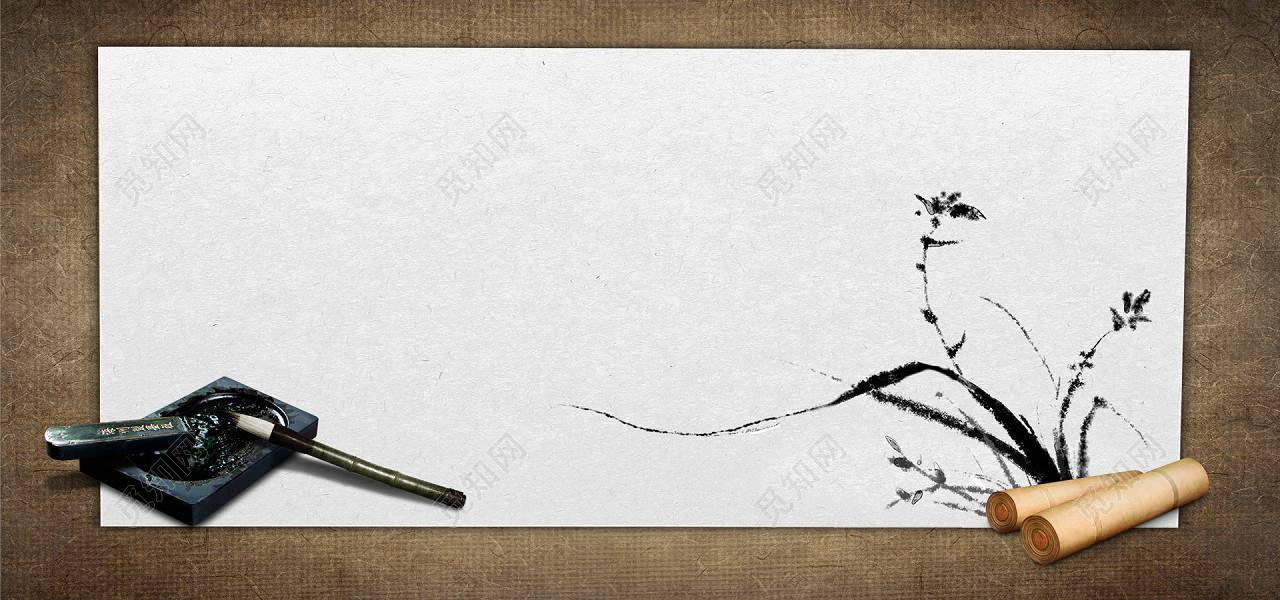
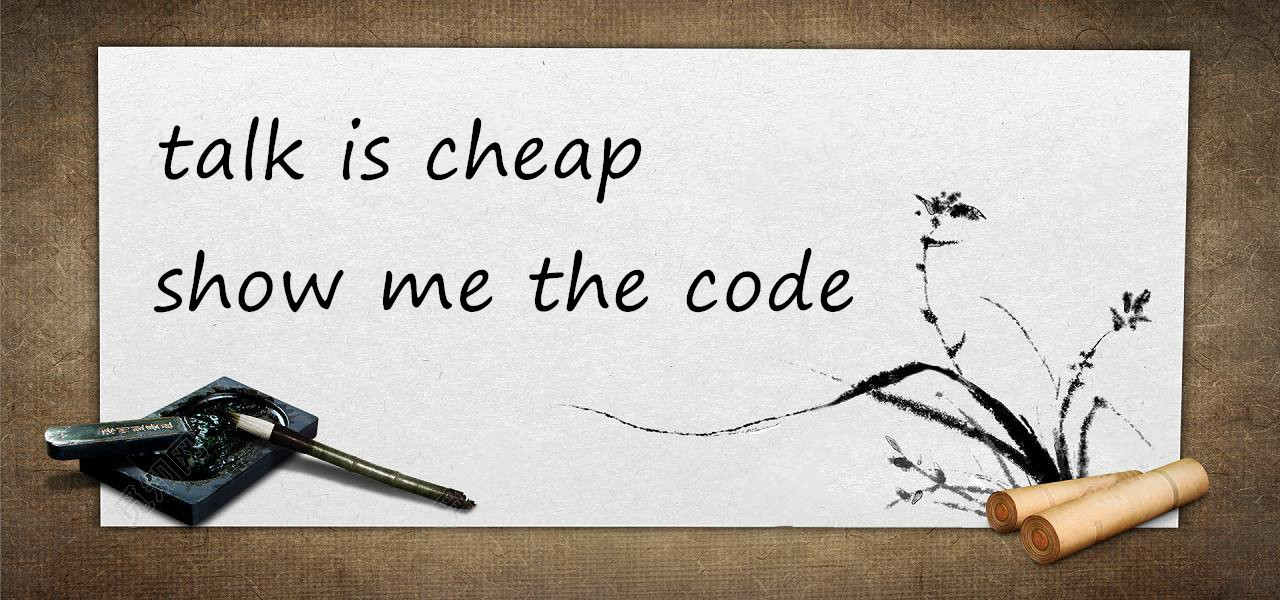
talk is cheap,show me the code

diff --git a/README.md b/README.md
@@ -1,6 +1,1 @@
-<div style="position: absolute;width:100%;">
-    <img style="position: absolute;" src="https://github.com/tuituidan/tuituidan/raw/master/bg.jpg" alt="2" />
-</div>
-<div style="position: absolute;background-color:red;margin:50px 80px;">
-当华美的叶片落尽，生命的脉络才清晰可见
-</div>
+<img src="https://github.com/tuituidan/tuituidan/raw/master/bg.jpg" alt="talk is cheap,show me the code" />
